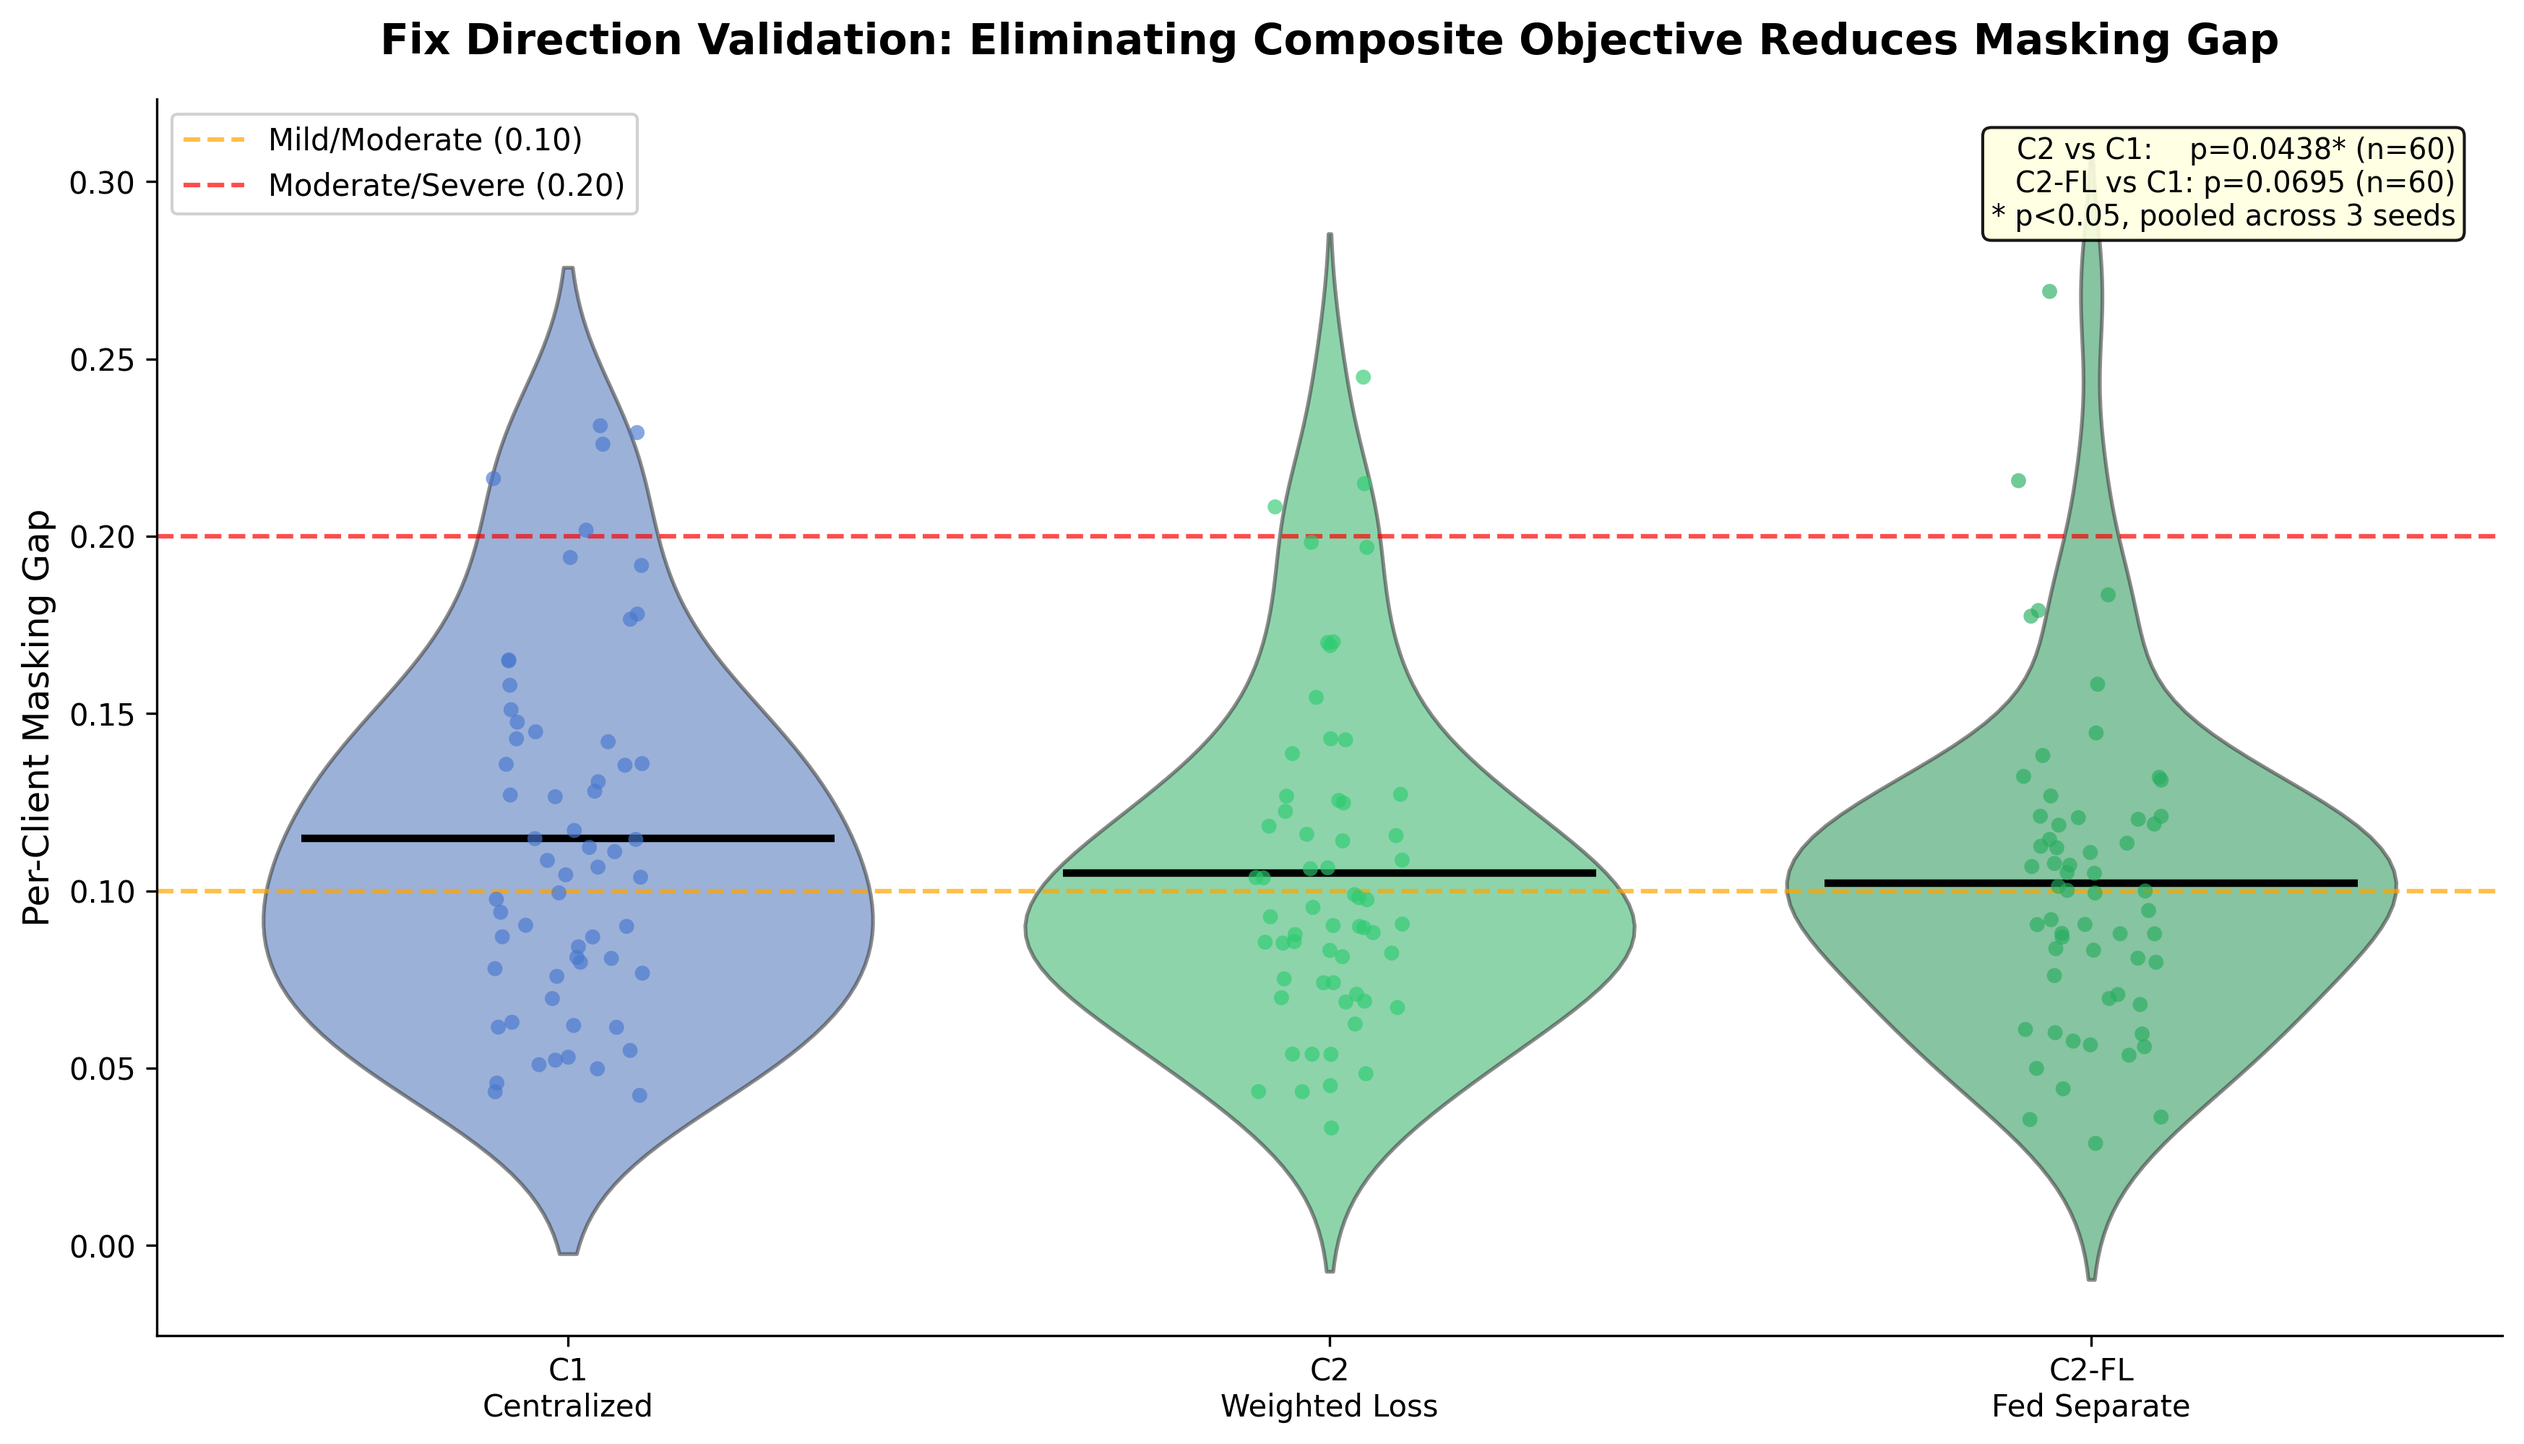
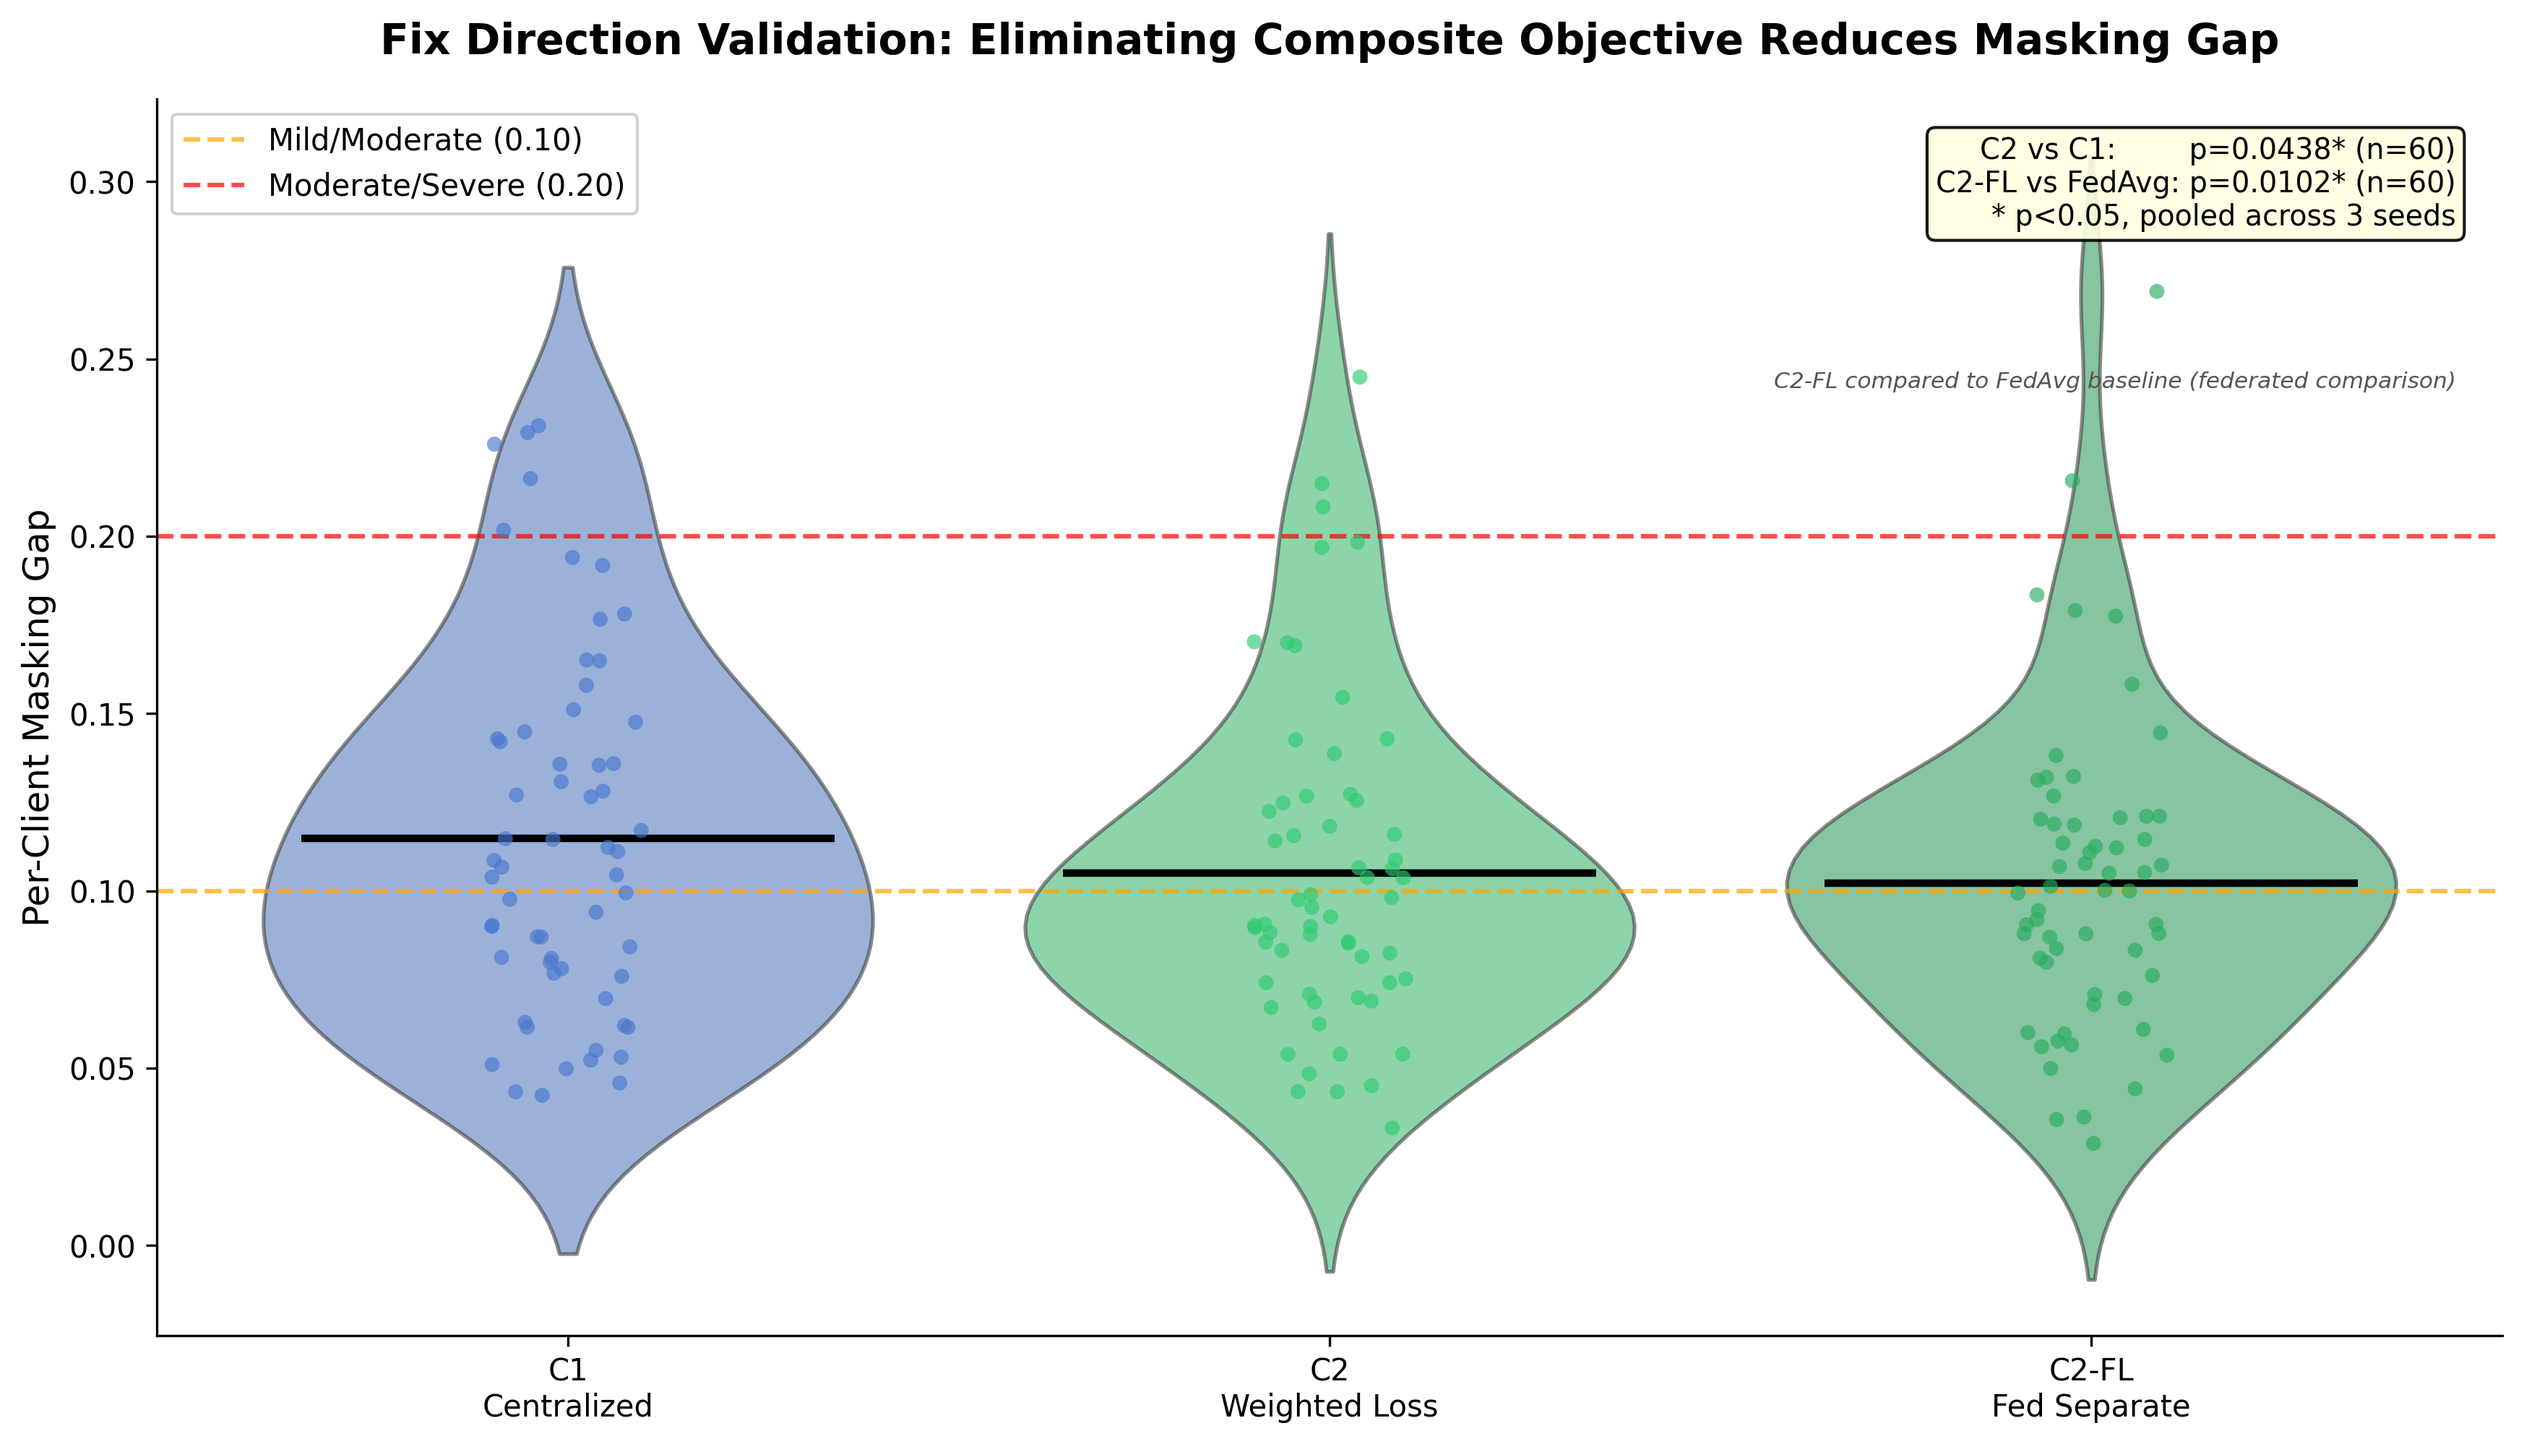
fix fig4: C2-FL correctly compared against FedAvg not C1

diff --git a/src/generate_figures.py b/src/generate_figures.py
@@ -291,23 +291,30 @@ savefig(os.path.join(figures_dir, 'fig3_convergence.png'),
 # ══════════════════════════════════════════════════════════════════════════════
 print("\n[Fig 4] Fix Proof (Violin + Strip)")
 
-# FIX 1: pool all 3 seeds, sort by client_id within each seed → 60 pairs
+# FIX 1: pool all 3 seeds, sort by client_id within each seed, truncate to
+# the shortest of the three so every triple has data for all three conditions
 c1_sorted, c2_sorted, cfl_sorted = [], [], []
 for seed in [42, 123, 456]:
-    c1_s = (df[(df['method'] == 'centralized') & (df['seed'] == seed)]
-            .sort_values('client_id')['masking_gap'].values)
-    c2_s = (df[(df['method'] == 'centralized_weighted') & (df['seed'] == seed)]
-            .sort_values('client_id')['masking_gap'].values)
-    cfl_s = (df[(df['method'] == 'federated_separate') & (df['seed'] == seed)]
-             .sort_values('client_id')['masking_gap'].values)
-    if len(c1_s) > 0 and len(c2_s) == len(c1_s) and len(cfl_s) == len(c1_s):
-        c1_sorted.extend(c1_s)
-        c2_sorted.extend(c2_s)
-        cfl_sorted.extend(cfl_s)
+    c1_seed = (df[(df['method'] == 'centralized') & (df['seed'] == seed)]
+               .sort_values('client_id')['masking_gap'].values)
+    c2_seed = (df[(df['method'] == 'centralized_weighted') & (df['seed'] == seed)]
+               .sort_values('client_id')['masking_gap'].values)
+    cfl_seed = (df[(df['method'] == 'federated_separate') & (df['seed'] == seed)]
+                .sort_values('client_id')['masking_gap'].values)
+
+    min_len = min(len(c1_seed), len(c2_seed), len(cfl_seed))
+    c1_sorted.extend(c1_seed[:min_len])
+    c2_sorted.extend(c2_seed[:min_len])
+    cfl_sorted.extend(cfl_seed[:min_len])
 
 c1_arr  = np.array(c1_sorted)
 c2_arr  = np.array(c2_sorted)
 cfl_arr = np.array(cfl_sorted)
+
+print(f"Paired samples: {len(c1_arr)}")
+print(f"C1 mean: {c1_arr.mean():.4f}")
+print(f"C2 mean: {c2_arr.mean():.4f}")
+print(f"C2-FL mean: {cfl_arr.mean():.4f}")
 
 # FIX 1: Wilcoxon with alternative='less' (fix methods expected lower)
 p_c2, p_cfl = np.nan, np.nan
@@ -315,6 +322,26 @@ if len(c2_arr) == len(c1_arr) and len(c1_arr) > 0:
     _, p_c2  = wilcoxon(c2_arr,  c1_arr, alternative='less')
 if len(cfl_arr) == len(c1_arr) and len(c1_arr) > 0:
     _, p_cfl = wilcoxon(cfl_arr, c1_arr, alternative='less')
+
+print(f"C2 p-value: {p_c2:.4f}")
+print(f"C2-FL p-value: {p_cfl:.4f}")
+
+# C2-FL compared against FedAvg (correct federated comparison)
+c3_sorted = []
+for seed in [42, 123, 456]:
+    c3_seed = df[
+        (df['method'] == 'fedavg') &
+        (df['seed'] == seed) &
+        (df['round'] == 49)
+    ].sort_values('client_id')['masking_gap'].values
+    min_len = min(len(cfl_arr)//3, len(c3_seed))
+    c3_sorted.extend(c3_seed[:min_len])
+c3_arr = np.array(c3_sorted)
+
+_, p_cfl_vs_fedavg = wilcoxon(
+    cfl_arr, c3_arr, alternative='less'
+)
+print(f"C2-FL vs FedAvg p-value: {p_cfl_vs_fedavg:.4f}")
 
 def fmt_p(p):
     if np.isnan(p):
@@ -353,14 +380,19 @@ if plot_data:
             ax.hlines(arr.mean(), xi - 0.35, xi + 0.35,
                       colors='black', linewidths=2.5, linestyles='-')
 
-    # FIX 1: annotation box with pooled p-values and n=60
+    # annotation box with pooled p-values and n=60
+    # C2-FL is compared against FedAvg (C3), not C1, since C2-FL is itself
+    # a federated method and belongs against the standard federated baseline
     n_pairs = len(c1_arr)
-    annot_text = (f"C2 vs C1:    {fmt_p(p_c2)} (n={n_pairs})\n"
-                  f"C2-FL vs C1: {fmt_p(p_cfl)} (n={n_pairs})\n"
+    annot_text = (f"C2 vs C1:        {fmt_p(p_c2)} (n={n_pairs})\n"
+                  f"C2-FL vs FedAvg: {fmt_p(p_cfl_vs_fedavg)} (n={n_pairs})\n"
                   f"* p<0.05, pooled across 3 seeds")
     ax.text(0.98, 0.97, annot_text, transform=ax.transAxes,
             ha='right', va='top', fontsize=9.5,
             bbox=dict(boxstyle='round', facecolor='lightyellow', alpha=0.9))
+    ax.text(0.98, 0.78, "C2-FL compared to FedAvg baseline (federated comparison)",
+            transform=ax.transAxes, ha='right', va='top', fontsize=7.5,
+            style='italic', color='#555555')
 
     ax.axhline(0.10, color='orange', linestyle='--', linewidth=1.5, alpha=0.7,
                label='Mild/Moderate (0.10)')
@@ -375,7 +407,8 @@ if plot_data:
         fontsize=14, fontweight='bold', pad=15)
     plt.tight_layout(pad=2.0)
     stat4 = (f'C1={c1_arr.mean():.3f} | C2={c2_arr.mean():.3f} | '
-             f'C2-FL={cfl_arr.mean():.3f} | {fmt_p(p_c2)} | {fmt_p(p_cfl)}')
+             f'C2-FL={cfl_arr.mean():.3f} | C2 vs C1 {fmt_p(p_c2)} | '
+             f'C2-FL vs FedAvg {fmt_p(p_cfl_vs_fedavg)}')
     savefig(os.path.join(figures_dir, 'fig4_fix_proof.png'), stat4)
 
 # ══════════════════════════════════════════════════════════════════════════════
@@ -511,7 +544,7 @@ if len(present_label_cols) >= 2:
                 annot_kws={'size': 10}, linewidths=0.5,
                 ax=ax, cbar_kws={'label': 'Pearson r'})
     ax.set_title(
-        "Label Correlation Matrix -- 7 Wellness Dimensions\n"
+        "Label Correlation Matrix: 7 Wellness Dimensions\n"
         "Low off-diagonal correlation confirms dimensional independence",
         fontsize=14, fontweight='bold', pad=15)
     plt.tight_layout(pad=2.0)
